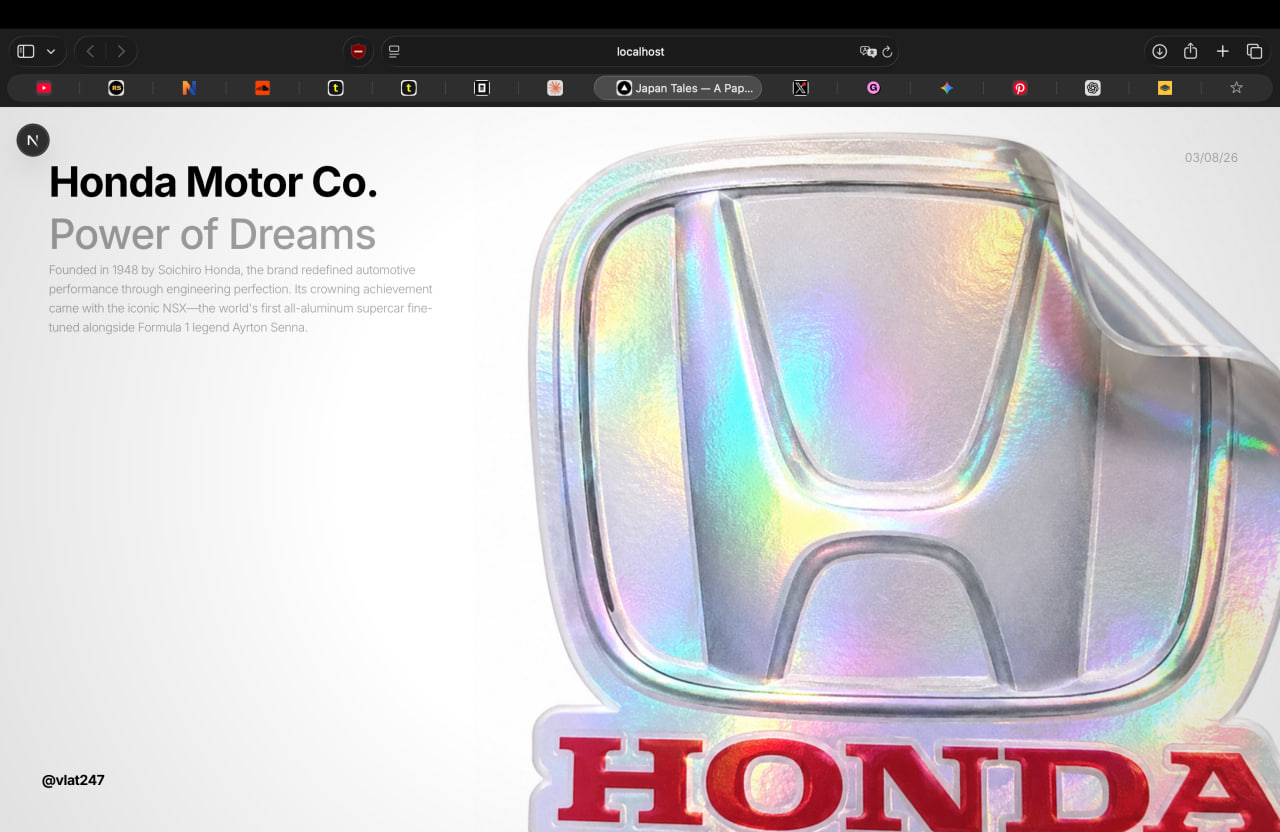
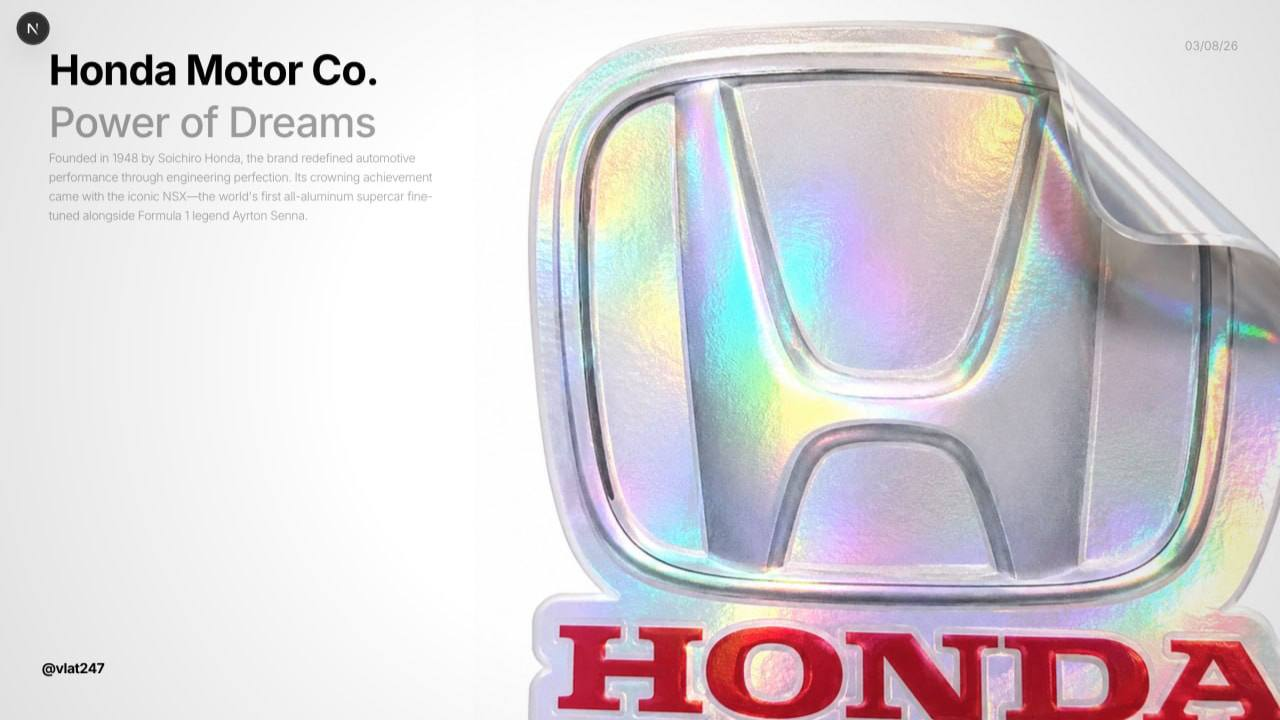
fix: replace Honda project screenshot

diff --git a/index.html b/index.html
@@ -5,7 +5,7 @@
   <meta name="viewport" content="width=device-width, initial-scale=1.0">
   <meta name="description" content="Vladislav Solomonov — frontend developer and mathematics student in Astana, Kazakhstan.">
   <title>Vladislav Solomonov — Frontend Developer</title>
-  <link rel="stylesheet" href="style.css?v=20261008-5">
+  <link rel="stylesheet" href="style.css?v=20261008-6">
   <script src="script.js?v=20261008-5" defer></script>
 </head>
 <body>
@@ -133,7 +133,7 @@
 
               <figure class="design-case design-case--honda">
                 <div class="design-case__media">
-                  <img src="public/designs/honda.png" alt="Honda editorial website interface design" loading="lazy" decoding="async">
+                  <img src="public/designs/honda.png?v=20261008-6" alt="Honda editorial website interface design" width="1280" height="720" loading="lazy" decoding="async">
                 </div>
                 <figcaption class="design-case__caption">
                   <h4 class="design-case__title">Honda</h4>

diff --git a/style.css b/style.css
@@ -836,7 +836,7 @@ body.is-projects-view .projects-page {
 }
 
 .design-case--honda .design-case__media {
-  aspect-ratio: 1280 / 832;
+  aspect-ratio: 1280 / 720;
 }
 
 .design-case--motion .design-case__media {
